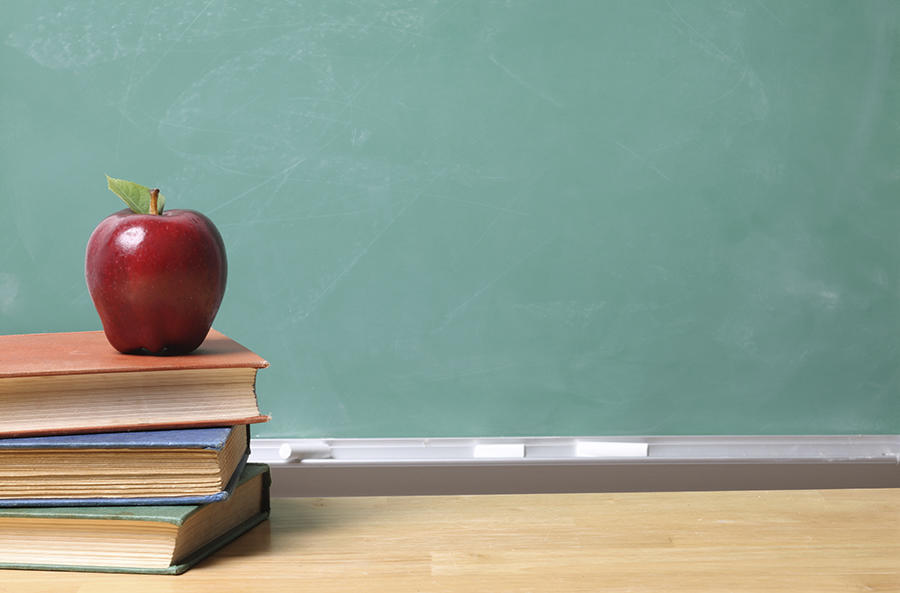
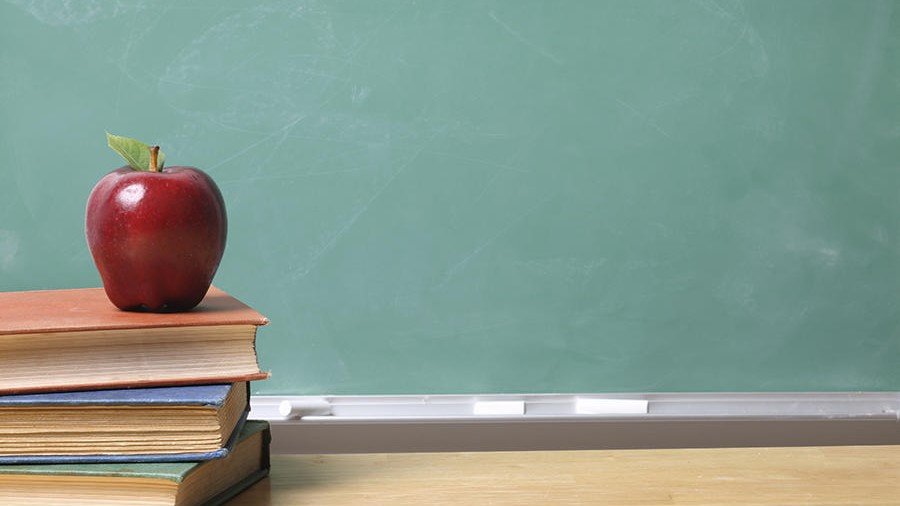
v3

Changed region(s): [[0.0, 0.5336, 1.0, 1.0], [0.0933, 0.2668, 0.2489, 0.4447], [0.6844, 0.9783, 0.7467, 1.0]]

diff --git a/contact.html b/contact.html
@@ -93,7 +93,7 @@
 
 	<div class="home">
 		<div class="home_background_container prlx_parent">
-			<div class="home_background prlx" style="background-image:url(images/contact_background.jpg)"></div>
+			<div class="home_background prlx" style="background-image:url(images/contact.jpeg)"></div>
 		</div>
 		<div class="home_content">
 			<h1>Contact</h1>

diff --git a/courses.html b/courses.html
@@ -89,7 +89,7 @@
 
 	<div class="home">
 		<div class="home_background_container prlx_parent">
-			<div class="home_background prlx" style="background-image:url(images/courses_background.jpg)"></div>
+			<div class="home_background prlx" style="background-image:url(images/cour.jpeg)"></div>
 		</div>
 		<div class="home_content">
 			<h1>Tuitions</h1>
